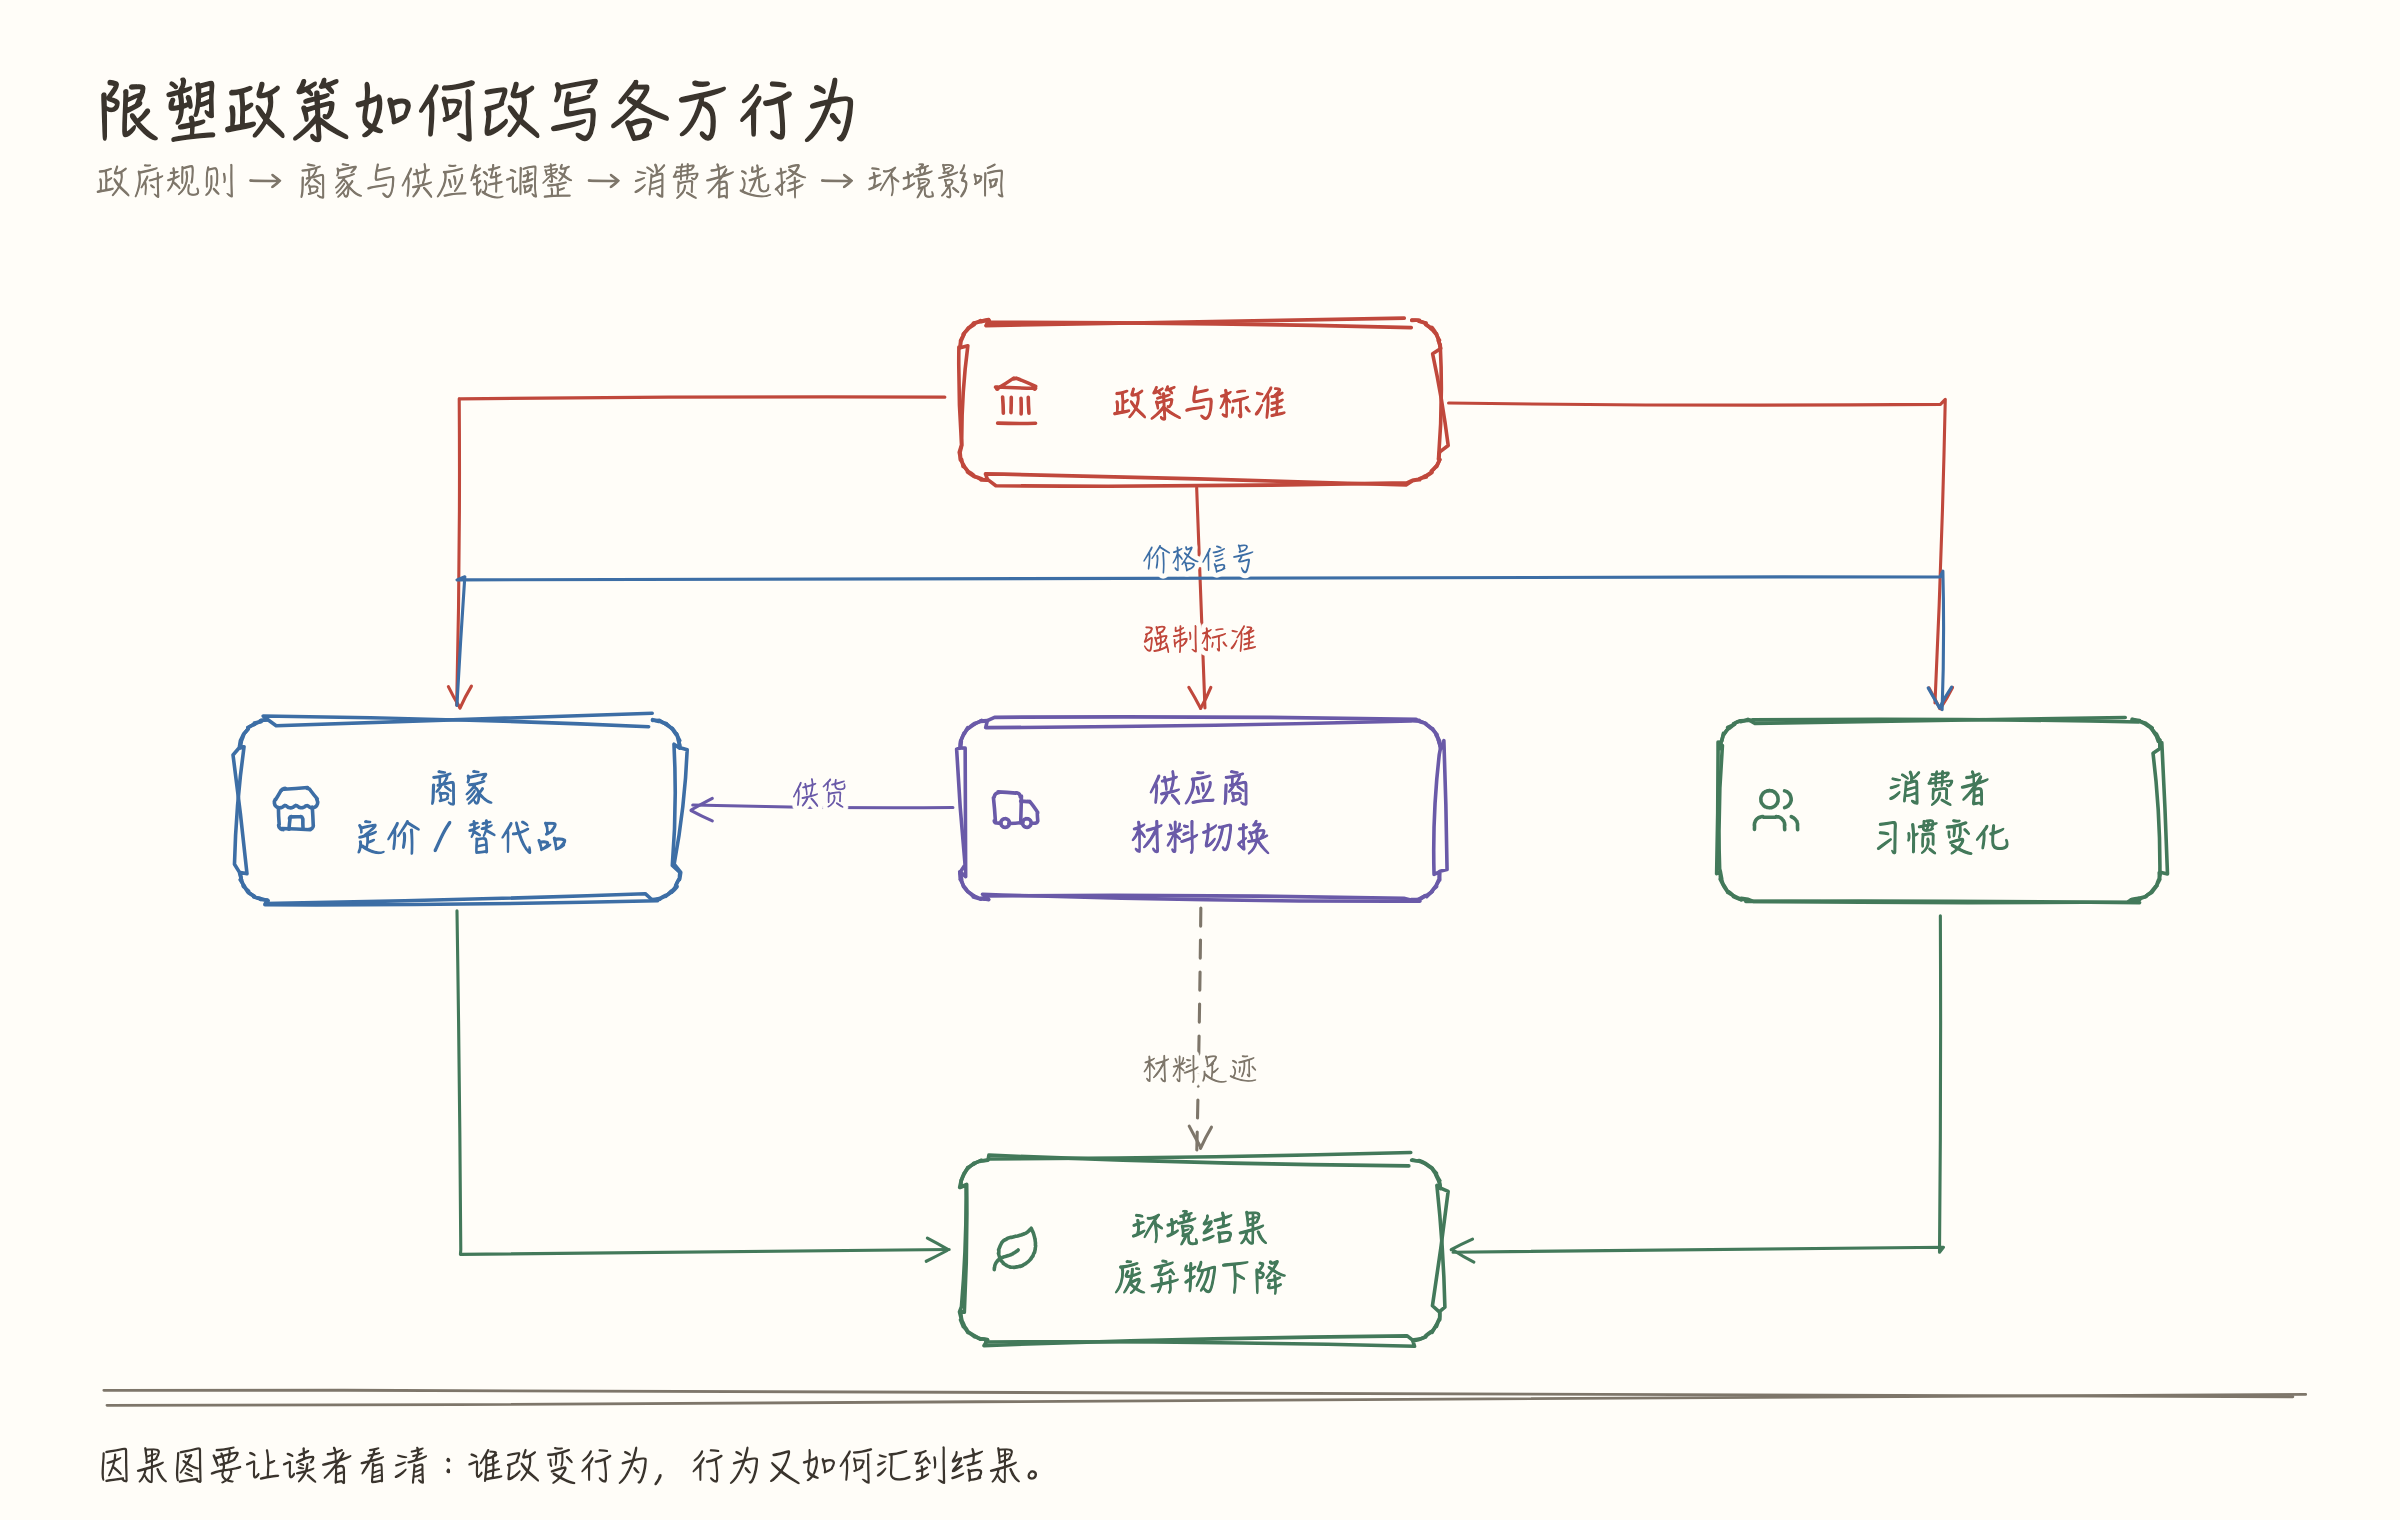
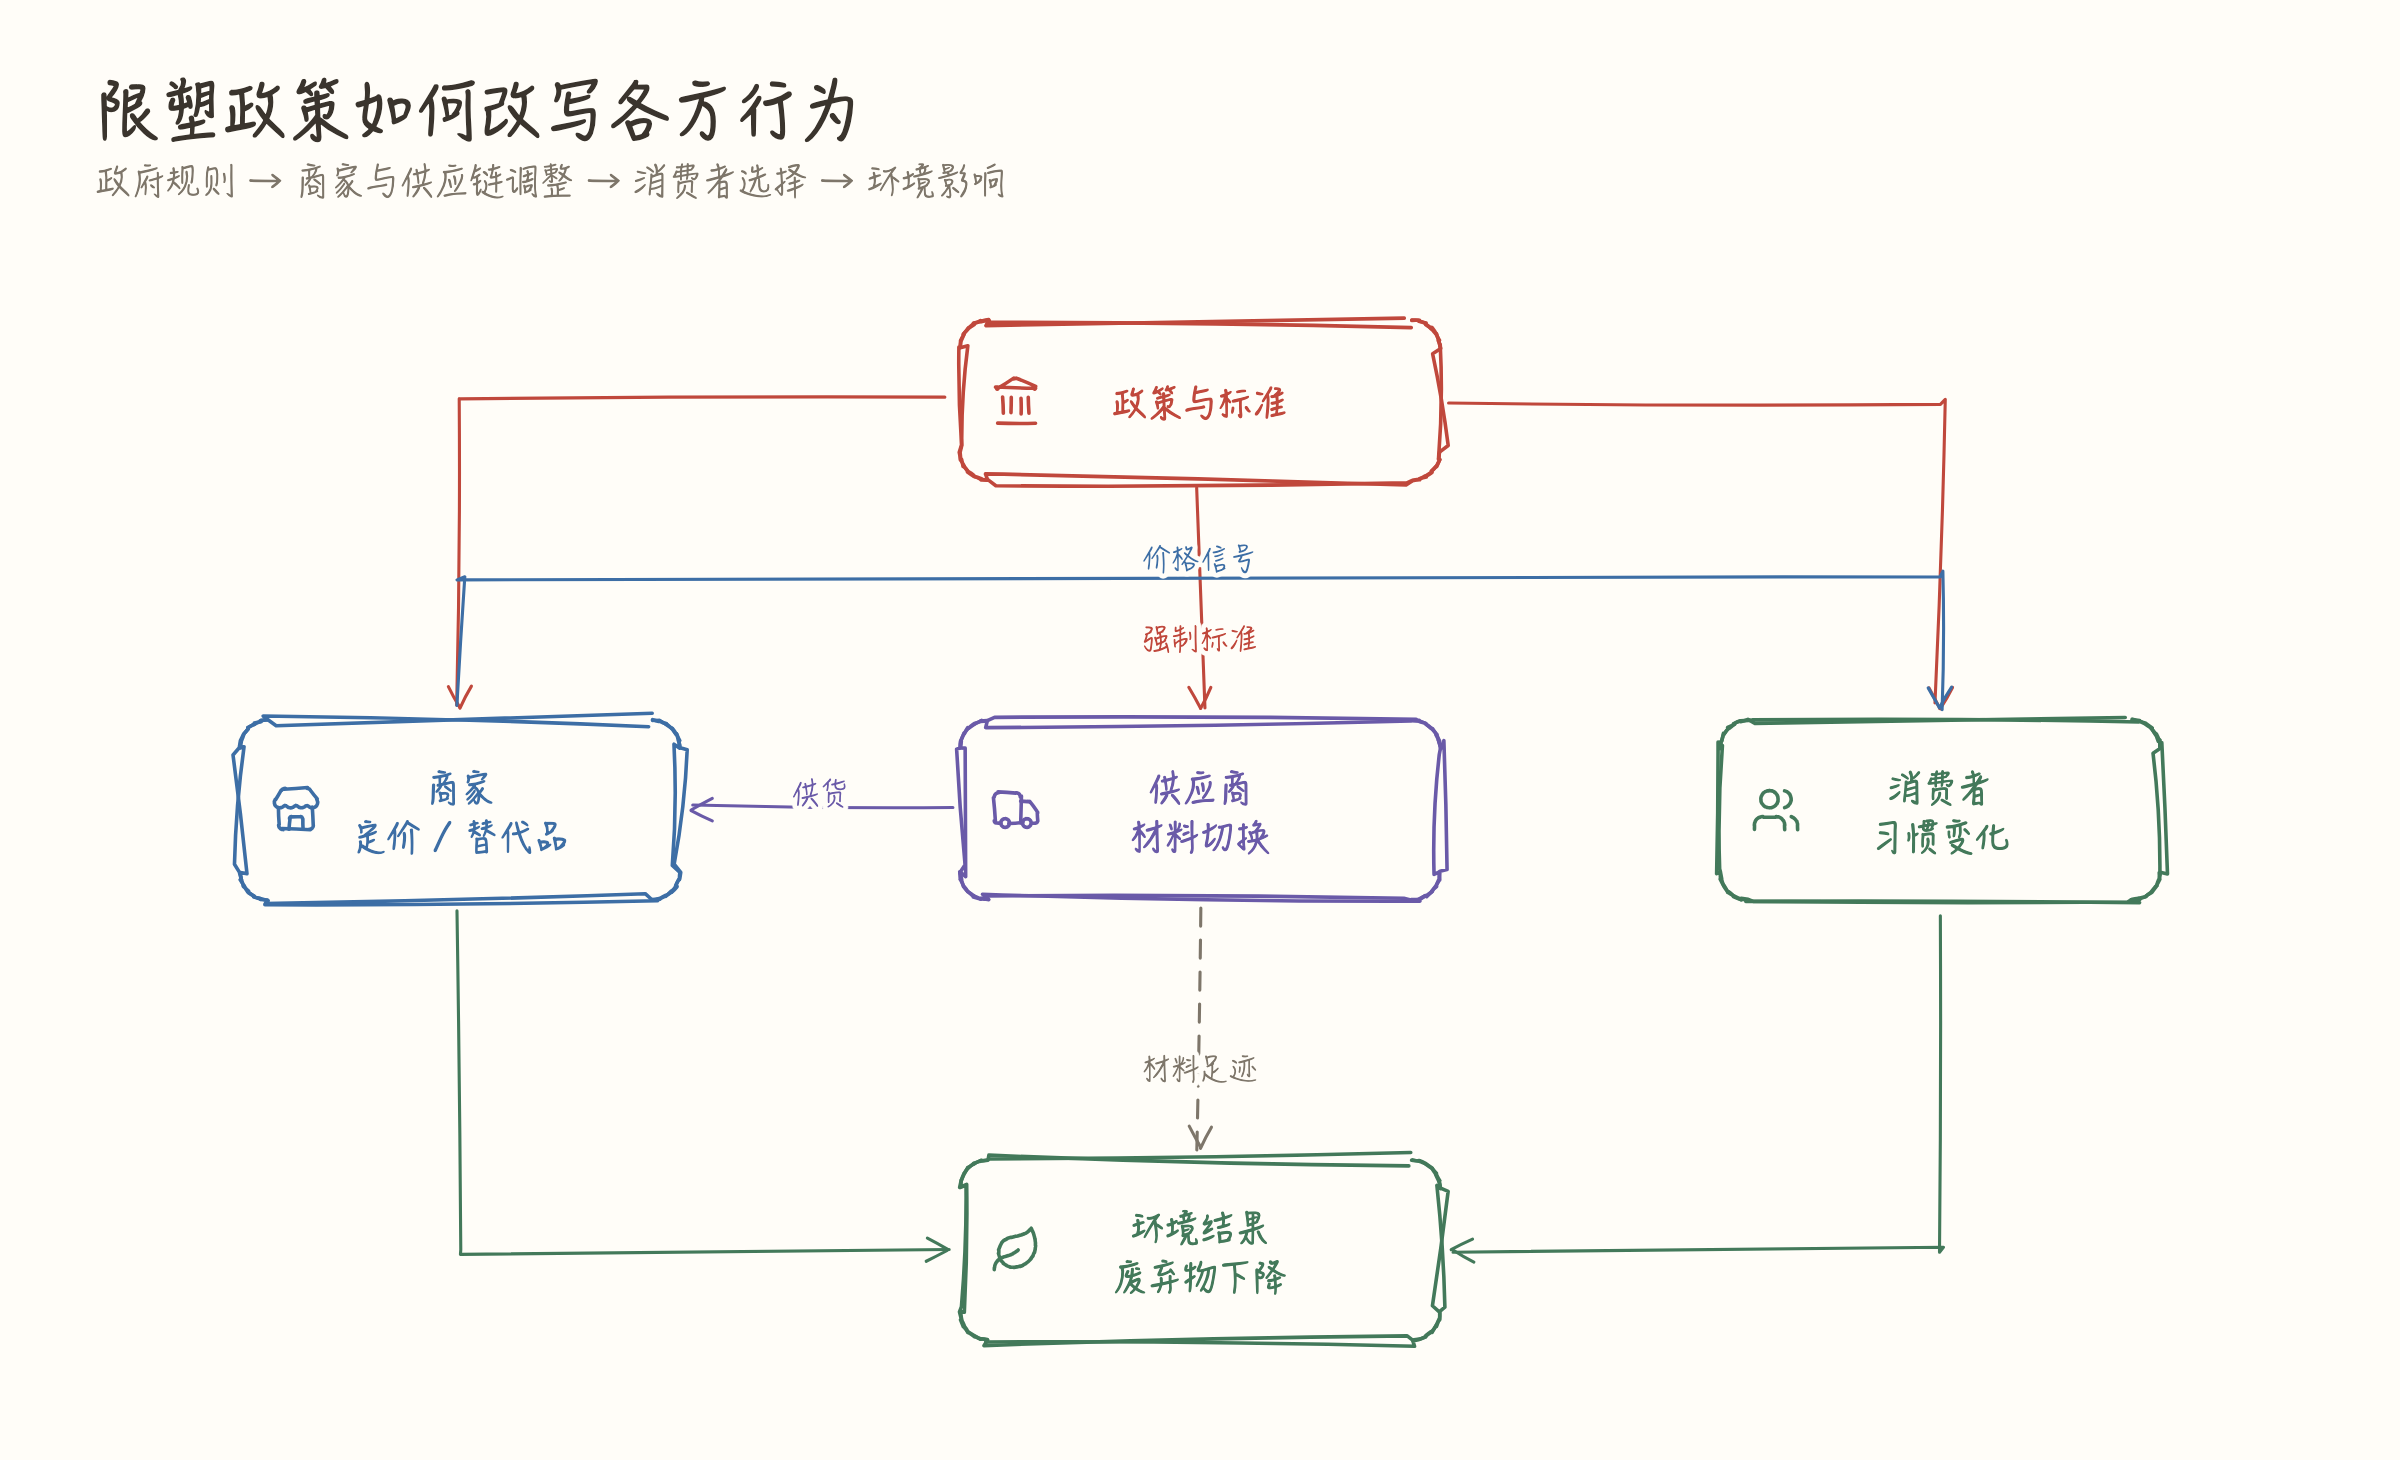
Update figure dimensions and remove footers in multiple examples for better clarity and consistency.
- Adjusted dimensions of various figures in `cnn-figures.mjs`, `figures.mjs`, and their corresponding SVG files to enhance layout.
- Removed footer annotations from several figures to streamline presentation and focus on key content.
- Updated `SKILL.md` to emphasize the default omission of footers and guidelines for information density in sketches.

diff --git a/skills/sketch-infographic/SKILL.md b/skills/sketch-infographic/SKILL.md
@@ -41,9 +41,24 @@ compatibility: Node.js >= 18；PNG 导出可选用本机 Chrome/Chromium/Edge/Br
 3. 必须出现的节点、关系、分组、**形态要素**（尺寸消长、通道深浅、包含关系等）和强调项；
 4. 语言、尺寸、横竖版、背景和输出格式要求。
 
+**信息量不足时，先确认信息密度（再落笔）。** 若用户在绘图前只给了题目/一句话主题、极少节点，或未说明要
+概括总览还是展开细节，**不要自行假设疏密**。应调用 `AskUserQuestion`（或当前 Agent 等价的结构化
+提问工具）询问本图期望的信息量程度，并据此控制图中信息密度。勿用普通闲聊式追问代替该工具。
+
+建议选项（可按语境微调文案，但保持三档清晰）：
+
+| 档位 | 含义 | 落笔约束 |
+|------|------|----------|
+| **低密度** | 一眼总览：少节点、短标签、主结构优先 | 3～7 个主元素；少副标题与注解；不塞细节流程 |
+| **中密度** | 讲清关系：关键节点与一级分支齐全 | 分组清晰；每块 1 行说明即可；避免二级展开墙 |
+| **高密度** | 尽量完整：步骤、分支、标注、例外都要可见 | 可加大画布或拆总览+局部图；仍保持可读，不靠缩字硬塞 |
+
+用户已明确密度、交付媒介（如「封面示意图」「一页讲透」），或材料本身已足够支撑疏密判断时，可跳过
+此问，直接选型绘制。
+
 用户没指定尺寸时，根据媒介选择合理比例：默认 `1200 × 675`；文档长图可增加高度，社交媒体
 或头像式卡片可用正方形，移动端可用竖版。形态密集的教学/结构图常需要更大画布
-（如 `1400 × 800`）。不要因为默认值而强行使用横向长方形。
+（如 `1400 × 800`）。不要因为默认值而强行使用横向长方形。高密度内容优先加高/拆图，而不是压字号。
 
 ### 2. 选择视觉语法（先选型，再落笔）
 
@@ -88,6 +103,10 @@ shell 变量 `$SKILL`；应使用真实的相对路径或绝对路径。
 ### 4. 编写图形定义
 
 一张图对应一个构建函数，返回 `createSketch()` 画布，并通过 `FIGURES` 导出。
+
+**默认不要调用 `s.footer()`。** 底部图注线 + 说明文字通常多余：结论应写在标题与图内标注里。
+只有用户明确要求图注、脚注或「图下说明」时才加 `footer`。不要为了「显得完整」而自动补一段总结。
+不加 `footer` 时，**画布高度也不要为其预留空白**——高度贴齐最低内容再留约 40～60px 边距即可；否则底部会显得空。
 
 拓扑/流程示例：
 

diff --git a/skills/sketch-infographic/references/layout.md b/skills/sketch-infographic/references/layout.md
@@ -57,7 +57,8 @@ const rowY = (i, top = 160, h = 54, gap = 36) => top + i * (h + gap);
 | 标签压住箭头 | 标签和连线抢同一段空间 | 标签移到连线一侧，留 12px 以上；或把标签放进小 `card` |
 | 曲线穿过卡片 | 控制点离图形太近 | 控制点往外推 40～80px，或改走画布外侧通道 |
 | 箭头扎进框里 | 起止点用了框中心 | **改用 `connect` / `bypass`**，从边中点进出 |
-| 底部元素被截断 | 画布高度不够 | 画布高度 = 最低元素 y + 60 以上 |
+| 底部元素被截断 | 画布高度不够 | 画布高度 = 最低元素底边 + 40～60；不加 `footer` 时不要额外预留图注空白 |
+| 底部大片留白 | 为已删除的 `footer` 仍留高度 | 按内容下沿收紧 `height`，不要默认加图注区 |
 | 图看着乱 | 顶层块超过 7 个 | 合并同类项，或拆成两张图 |
 | 手绘感太强，正式场合不合适 | 默认 roughness 偏大 | `createSketch(w, h, { stroke: { roughness: 0.8, passes: 1 }, font: FONT_SANS })` |
 

diff --git a/skills/sketch-infographic/references/api.md b/skills/sketch-infographic/references/api.md
@@ -336,11 +336,15 @@ node scripts/generate-icons.mjs
 
 ```js
 s.header({ title: '标题即结论', sub: '可选副标题' }); // 返回正文起始 y
-s.footer(y, '图注文字');
+// 默认不要 footer；仅当用户明确要求图注 / 脚注时：
+// s.footer(y, '图注文字');
 ```
 
 默认不加编号徽章。只有正文需要「图 1 / 图 2」交叉引用时才传 `label: '图 1'`。
 标题固定在画布顶部，正文元素建议从返回值往下排。
+
+**`footer` 默认省略。** 结论放在 `header` 标题与图内标签即可；不要每张图都加底部署名式说明。
+省略时画布高度也不要预留图注区，贴齐内容下沿再留约 40～60px。
 
 ## 导出与渲染约定
 
